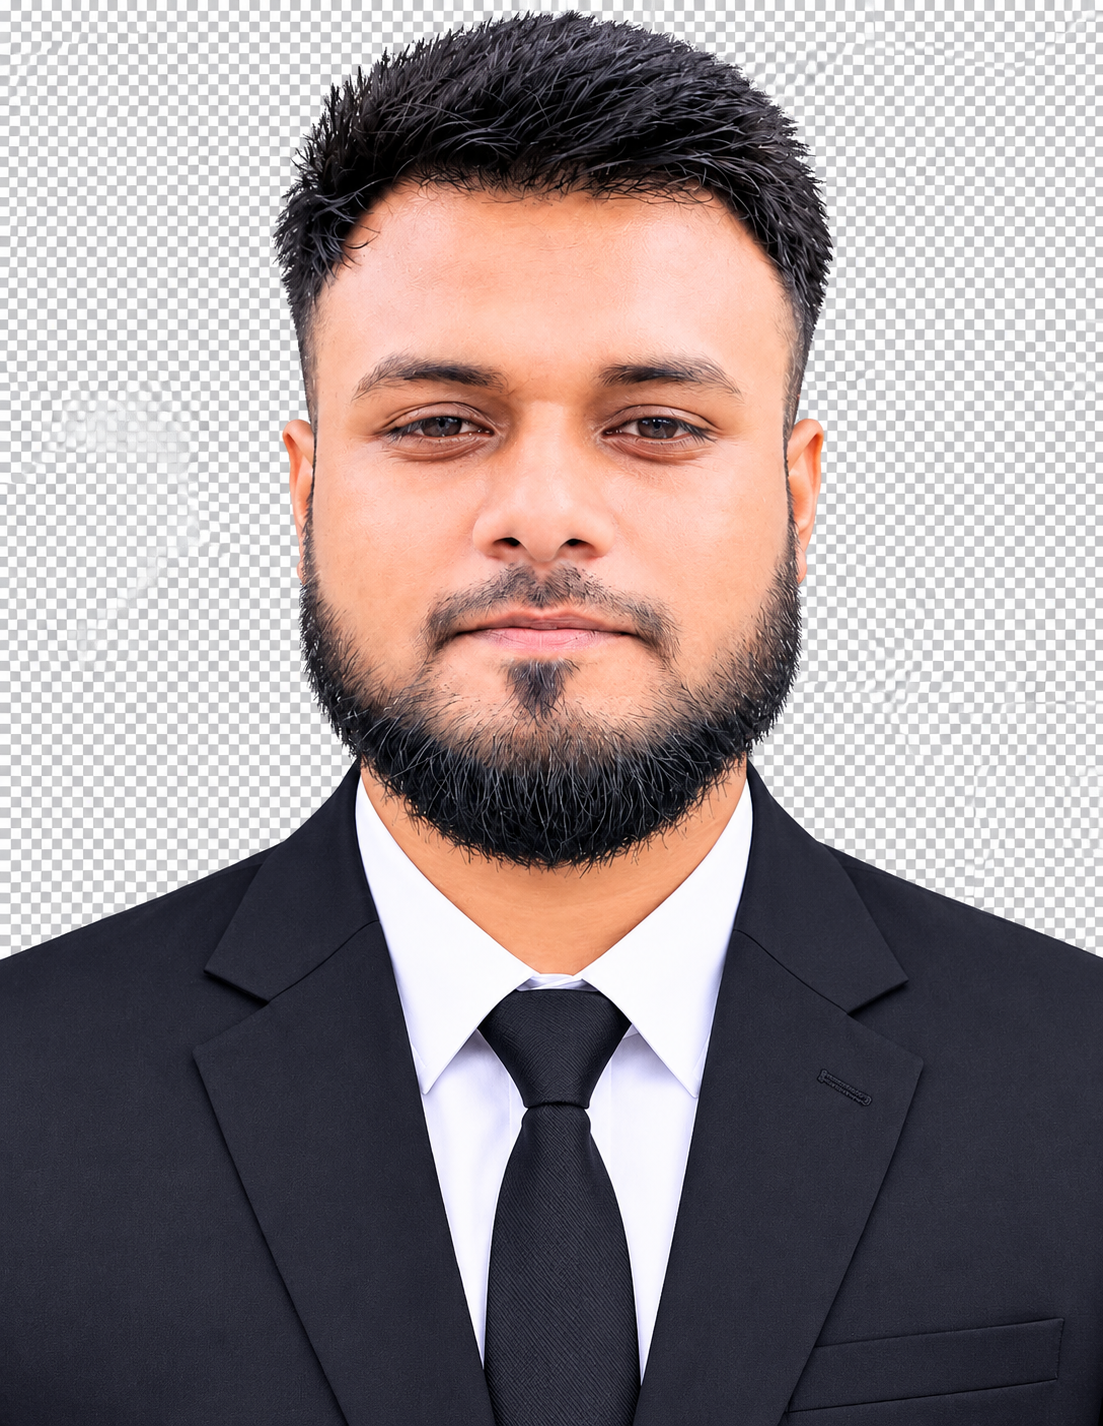
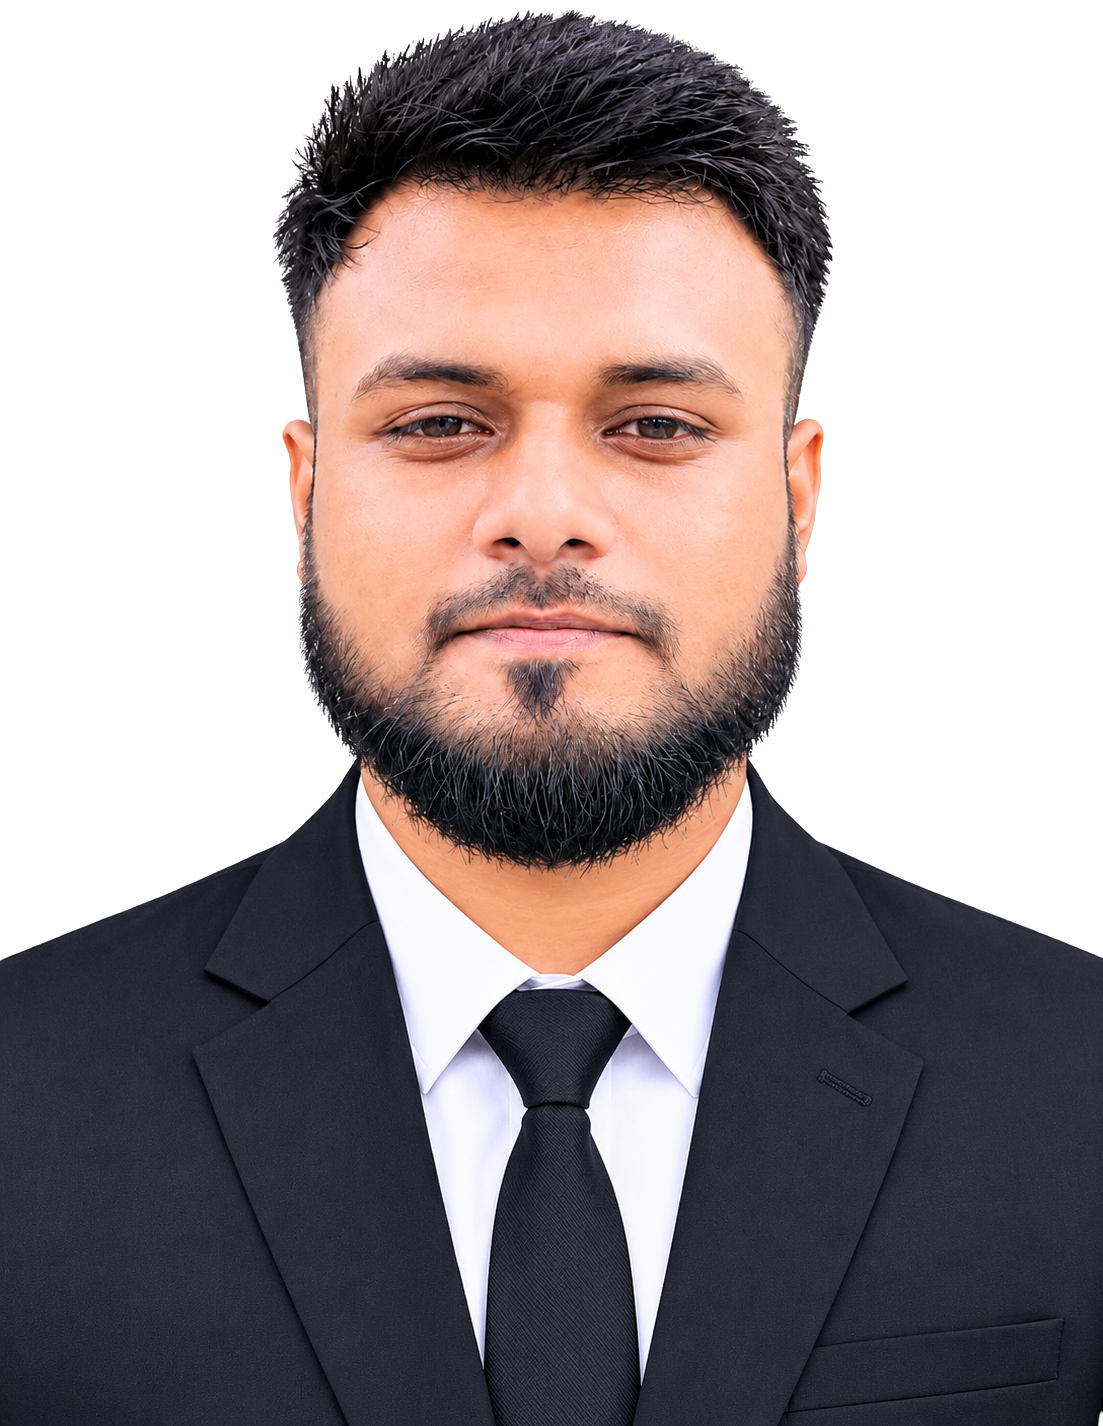
fix: jihad photo replaced

Changed region(s): [[0.0, 0.0, 1.0, 0.6788], [0.9864, 0.9874, 1.0, 1.0]]

diff --git a/src/data/admins.ts b/src/data/admins.ts
@@ -28,7 +28,7 @@ export const digitalAdmins: DigitalAdmin[] = [
     adminRoleBn: "হেড অব ডিজিটাল মিডিয়া",
     badgeEn: "🎬 Head of Digital Media",
     badgeBn: "🎬 হেড অব ডিজিটাল মিডিয়া",
-    image: "/images/admin/avatar-placeholder.svg",
+    image: "/images/admin/apu.png",
   },
   {
     id: "mahbub",
@@ -48,7 +48,7 @@ export const digitalAdmins: DigitalAdmin[] = [
     adminRoleBn: "ডিজিটাল মার্কেটিং স্পেশালিস্ট",
     badgeEn: "📈 Digital Marketing",
     badgeBn: "📈 ডিজিটাল মার্কেটিং",
-    image: "/images/admin/avatar-placeholder.svg",
+    image: "/images/admin/alamin.png",
   },
   {
     id: "himel",
